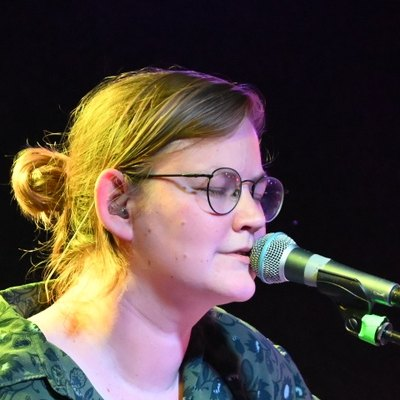
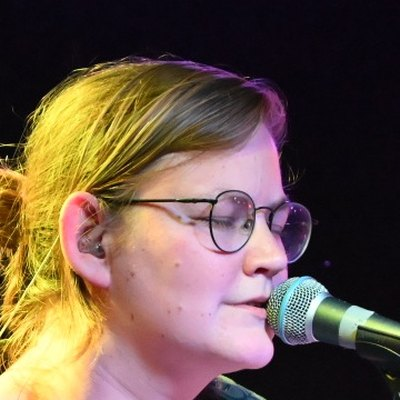
Foto's Eline en Finn strakker bijgesneden
Claude-Session: https://claude.ai/code/session_017meUA3FmpYzcMabhZZZ1pk

diff --git a/index.html b/index.html
@@ -113,7 +113,7 @@
 <link rel="preconnect" href="https://fonts.googleapis.com">
 <link rel="preconnect" href="https://fonts.gstatic.com" crossorigin>
 <link rel="stylesheet" href="https://fonts.googleapis.com/css2?family=Kaushan+Script&family=Oswald:wght@500;600&family=Libre+Franklin:ital,wght@0,400;0,600;1,400&display=swap">
-<link rel="stylesheet" href="style.css?v=20261025a">
+<link rel="stylesheet" href="style.css?v=20261025b">
 </head>
 <body>
 
@@ -285,6 +285,6 @@
   <p id="lichtbak-tekst"></p>
 </dialog>
 
-<script src="gegevens.js?v=20261025a"></script>
-<script src="site.js?v=20261025a"></script>
+<script src="gegevens.js?v=20261025b"></script>
+<script src="site.js?v=20261025b"></script>
 </body></html>
